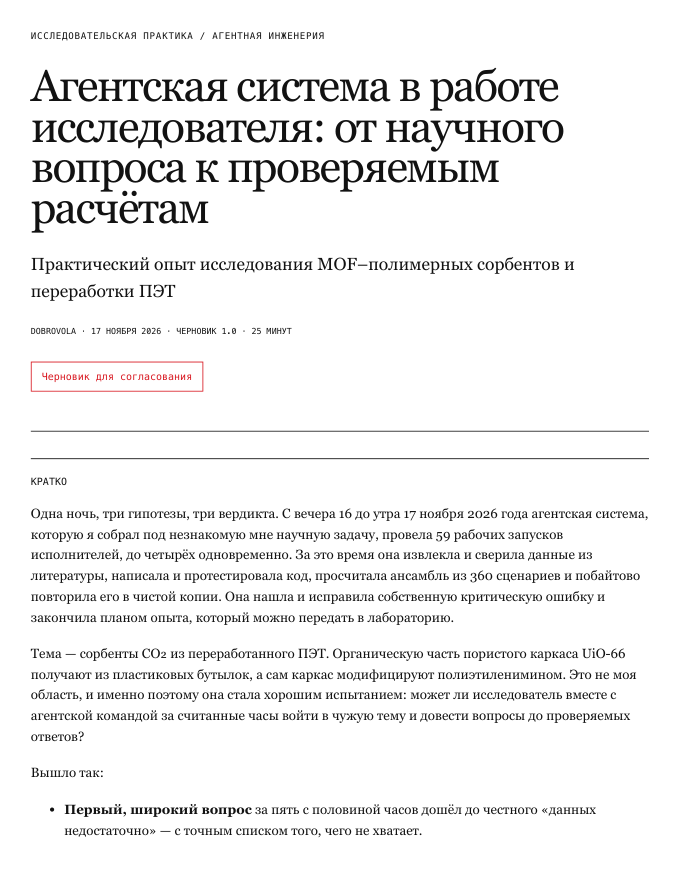
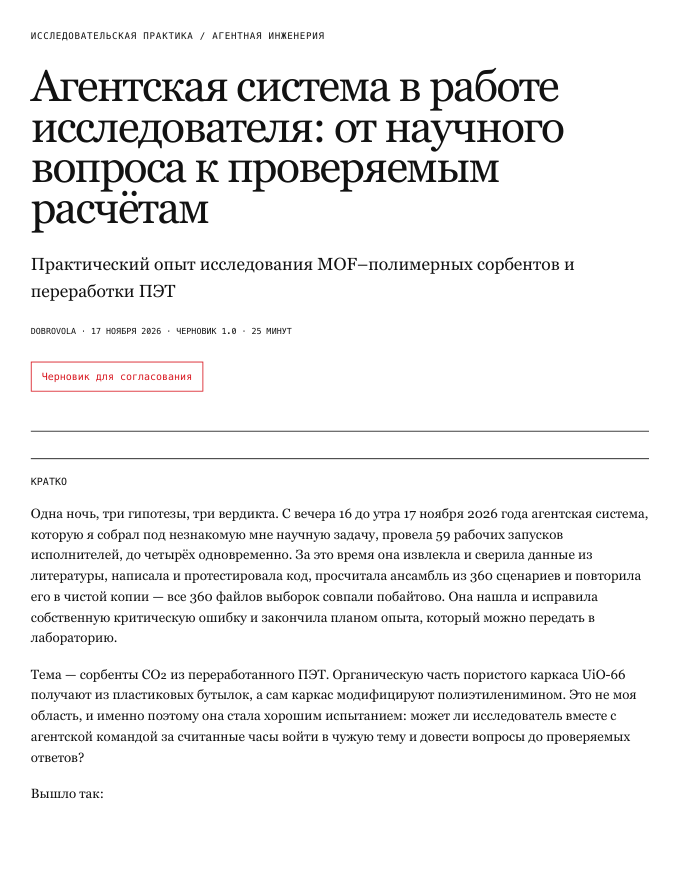
TASK-004: draft-1.0 final — T054r2 report, C41/C46 commit fix, screenshots
T054r2 on e1ad8b5: all 11 earlier findings closed, §4.1-§4.8 covered,
one minor (claims commit locator) fixed here. Screenshots and print
pages retaken; html_check and run log updated.

Changed region(s): [[0.0309, 0.6443, 0.9574, 0.9511], [0.8029, 0.9205, 0.8647, 0.9511]]

diff --git a/publications/agentic-research-pet2mof/review/T054r2_final_check.md b/publications/agentic-research-pet2mof/review/T054r2_final_check.md
@@ -1,0 +1,94 @@
+# T054r2 — финальная проверка изменённых фрагментов
+
+Проверен `e1ad8b572e0acb513297865eb7549f2414db8991`, база diff —
+`d0c741e42391b406a3e99f4d262ba0ed28dce932`. Дата: 17.11.2026.
+Роль: исполнитель PET2MOF, независимый проверяющий · платформа: OpenAI Codex.
+Назначение: `gpt-6-astra`, effort `high`; фактические модель/effort и launcher
+этим интерфейсом независимо не подтверждены. Локальных `.agents/skills/` и
+`.claude/rules/` нет; применены AGENTS.md и карточка, чужие роли не подставлялись.
+
+**Вердикт: прежние 11 замечаний закрыты по существу; новых — 0 critical,
+0 major, 1 minor (локатор C46). Требования §4.1–§4.8 покрыты.**
+Новых опровергнутых научных чисел или существенного усиления научных выводов
+в проверенном diff не найдено. Для внешних сведений действует ограничение ниже.
+
+Обозначения: **S1** = `66bae26af9970c3142b72d25031c844b5461708f`,
+**S2** = `1558433614619e04102989d6b6f1479c50f364ce`,
+**S3** = `70685dc686ce22505b303a60920980a02772f019`.
+**PACK** = `data/task002/PET2MOF_Task002_DataPack_v1.0/` на S2.
+Пути статьи, `evidence/` и `review/` — относительно комплекта статьи;
+остальные — от корня проекта. Строки относятся к проверенному HEAD.
+
+| Пункт | Итог | Место | Доказательство |
+| --- | --- | --- | --- |
+| T054-01 | Закрыто, регрессии нет | `article.ru.md:91,96,165` | Удалены повторения в P02/P07, но исключение о последних правках руководителя и ограничения слепоты сохранены у схемы. S1:`docs/prereg_status.md`; S2:`reports/task002/final_report_task002.md` §4; S3:`reports/task003/review.md`, заключение. |
+| T054-02 | Закрыто | Ст. 322–335; C43 | MD → конфигурации → адсорбция; DFT → параметры отдельной модели η; GCMC → равновесная физсорбция, затем модель аминов/регенерации. Статус перспективы сохранён. S1:`docs/work_order_v1.1_RU.md` §4; определения φ/η в S3:`reports/task003/final_report.md` §4. |
+| T054-03 | Закрыто, регрессии нет | Ст. 156,161; C14 | В подписи остались T/p/сухой чистый газ; неоднозначность 1 bar / 1 atm и неоценённое влияние на ранги сохранены рядом с результатом, ст. 156. PACK:`data/primary/S2_dry_CO2.csv`; итоговый отчёт S2 §3. |
+| T054-04 | Закрыто | Ст. 163,368 | «PET-происхождение не установлено», не отрицание происхождения. PACK:`data/primary/S2_materials.csv`: `PET_derived=not_reported`. |
+| T054-05 | Закрыто | Ст. 327; C42 | Размер PEI назван модельным, зависящим от массы/конформации; расположение неизвестно. S3:`reports/task003/route_compatibility.md:4–6`. |
+| T054-06 | Закрыто по сохранённому свидетельству | Ст. 34 | «Одна из основных» соответствует E1 в `review/T054_rewrite_review.md`; новой проверки страницы UG не было. |
+| T054-07 | Закрыто по сохранённому свидетельству | Ст. 46; C34 | И статья, и реестр говорят об объявленном сроке; C34 указывает сообщение 19.03.2025. Соответствует E4 в T054; факт запуска больше не утверждается. |
+| T054-08 | Закрыто | Ст. 343; C45 | Теперь максимум «около», а не ложная строгая граница. S3:`reports/task003/independent_agreement.json`: 124 сравнения, 0 failures, максимум `8.830713937868495e-13`. |
+| T054-09 | Закрыто | Ст. 40; C33 | Вывод ограничен удельной поверхностью одной пары. S3:`data/task003/extracted/SRC03_tables.csv`, Table S2: 874.6/873.9 м²/г. |
+| T054r-01 | Закрыто | Ст. 76 | Убрано «только», перечислены исходные файлы с персональными данными и непубликуемые копии статей. S2:`docs/task002/error_log.md`, записи 2,15; итоговый отчёт §2. |
+| T054r-02 | Закрыто | C45 | Единый допуск удалён; по JSON S3: h/w/s/G — 94 × 10⁻¹², kstar — 6 × 10⁻¹¹, η·nN — 24 × 10⁻⁹. Оговорка `not_compared` сохранена. |
+| Уточнение воспроизведения | Подтверждено | Ст. 16 | 360 совпавших файлов выборок, не все артефакты. S1:`reviews/T016_clean_reproduction.md:6,42–43`; `reports/final_report.md:94`. |
+| Предметное пояснение | Соответствует постановке | Ст. 44 | Носитель/композит и влияние массы/блокировки согласованы с балансом S3; сухие условия — с S2 §1 и S100 при 298 K. Показатели установки прямо отделены от сухой ёмкости; влажный ансамбль первого этапа описан отдельно. |
+| Отказ от усложнений | Подтверждено в контексте имеющихся данных | Ст. 170 | Влажность/цикл/крупный ансамбль исключены постановкой TASK-002; Toth не идентифицируется, сохранена интерполяция: S2:`reports/task002/final_report_task002.md` §4 (36 сохранённых попыток). «Без потерь» относится к решению этой узкой задачи, не доказательству бесполезности методов вообще. |
+| Название конвейера, опыт и исходы | Подтверждено | Ст. 78,211,220 | Названия не обещают полного ответа одним опытом. Категория «неразрешимо» есть в S3:`reports/task003/next_experiment.md`; речь о запланированной классификации, не проведённом опыте. |
+| C46: числа | Подтверждено; локатор неверен | C46; ст. 109,357–359 | `stage_stats.csv`: 5.494/0.948/1.876 ч, 44/8/7 запусков; от первого smoke до финала 11.938 ч. Суммы/числа запусков/максимум параллелизма сверены с `agent_runs.csv`. См. новый minor ниже. |
+| C47 | Подтверждено | C47; ст. 115 | S1:`docs/work_order_v1.1_RU.md`: 4781 элемент при разделении по пробелам, округление до 4800 допустимо. |
+| Остальные правки CSV | Без содержательных изменений | C03–C30, изменённые поля `section` | Поэлементное сравнение CSV: переименованы разделы; значения, источники и ограничения этих строк не менялись. |
+
+| Пункт поручения | Итог | Место | Доказательство покрытия |
+| --- | --- | --- | --- |
+| §4.1 | Покрыт | Ст. 28–71 | Мотивация, ПЭТ/MOF/UiO-66/PEI, смысл поглощения и ёмкости, носитель/композит, сухая ёмкость/установка, отсутствие сотрудничества. |
+| §4.2 | Покрыт | Ст. 69–109,320–335 | Роли, рабочие копии, launcher, инструменты, приёмка, Python, извлечение/OCR, тесты и паспорта; движки обозначены перспективой. |
+| §4.3 | Покрыт | Ст. 111–132 | Гипотеза, входы, источники, модель, ансамбль, ограничения массовой основы/проверки, полезная инфраструктура и переход. |
+| §4.4 | Покрыт | Ст. 134–170 | Подготовленный пакет и готовые контрольные ответы отделены от работы исполнителей; кандидаты, устойчивость, методы и причина отказа от усложнений. |
+| §4.5 | Покрыт | Ст. 172–220 | R1/R2, баланс, условный приоритет, формула с расшифровкой, требования вместо прогнозируемой η, парный опыт. |
+| §4.6 | Покрыт | Ст. 222–249 | Порог переноса, массовая основа, оператор пористости: исходный вывод, проверка, исправление и последствие. |
+| §4.7 | Покрыт | Ст. 337–372 | Польза связана с данными/кодом/проверками/планом опыта; человеческие решения и необходимость эксперимента сохранены. |
+| §4.8 | Покрыт | Ст. 374–393; приложение P08, ст. 1339 | Шесть шагов, новый обобщённый шаблон с полями и три требуемые группы ссылок. |
+
+Блоки «цель → что передали → что сделали → что получили → почему изменили»
+изложены повествованием и подзаголовками. Это разрешённое владельцем решение,
+не дефект; смысловые составляющие присутствуют у всех трёх этапов.
+
+## Новое замечание
+
+**T054r2-01 · minor — C46 ссылается на commit, где одного из источников ещё нет.**
+
+Место: `evidence/claims.csv:47` (C46). Поле `source_path` содержит
+`evidence/stage_stats.csv; evidence/agent_runs.csv`, общее поле `commit` — `afbf522`.
+Первый файл на этом commit отсутствует; второй существует и совпадает с HEAD.
+Поэтому заявленные календарные границы нельзя проверить по первой паре путь/commit.
+Это дефект прослеживаемости, а не неверные длительности.
+
+Проверка (ожидаемый exit **128**):
+
+```sh
+git cat-file -e afbf522:publications/agentic-research-pet2mof/evidence/stage_stats.csv
+```
+
+Исправление: для `stage_stats.csv` указать
+`eb69fe1c5047d322fdd7d8e3712414a5438b6e60`, где файл существует и побайтово равен HEAD;
+для `agent_runs.csv` сохранить `afbf52256b98dabde01c39fc14a8074c8aec3c6c`
+с явным соответствием каждому пути либо выбрать один проверенный commit для обоих.
+Статью и реестр в этой задаче не исправлял.
+
+## Проверки и непроверенное
+
+Команда diff из карточки выполнена (exit 0); HEAD подтверждён, исходное дерево чистое.
+Read-only Python через stdin (stdlib, exit 0) сравнил поля CSV, посчитал слова C47,
+агрегировал исходный JSON сравнений S3, сверил статистику запусков и календарные интервалы,
+проверил Git-объекты источников C46. Три исторических итоговых отчёта побайтово равны HEAD.
+Команды не создавали расчётных выходов; единственный новый файл — этот вердикт.
+
+Не проверены заново: внешние страницы и факт запуска залоговой системы; исходные научные
+PDF/JATS и их визуальная вёрстка; рисунки, HTML/браузерная сборка и доступность ссылок;
+полное воспроизведение и тесты TASK-001/002/003; приватные логи и фактическая маршрутизация
+модели; экспериментальная применимость и мощность будущего опыта. Неизменённые утверждения
+не проходили сплошного нового фактчекинга: они читались для закрытия замечаний и проверки
+смыслового покрытия поручения. Внешние T054-06/07 закрыты относительно сохранённого
+свидетельства T054, не новой сетевой сверки. Сеть, `.env`, stage, commit и push не использовались.

diff --git a/publications/agentic-research-pet2mof/review/html_check.md b/publications/agentic-research-pet2mof/review/html_check.md
@@ -6,12 +6,12 @@
 
 | Проверка | Как | Результат |
 | --- | --- | --- |
-| Сборка и офлайн-правила | `python3 -I tools/check.py` с `ARTICLE_PRIVATE_PATTERNS` (имя/почта владельца, домашние пути, `claude.ai`, `sandbox:`) | 0 ошибок; 4916 слов основного текста; один H1; якоря и локальные пути существуют; ссылки на GitHub — только полный SHA трёх commit и существующий путь; внешних загрузок (script/link/img/`url()`/`@import`) нет |
+| Сборка и офлайн-правила | `python3 -I tools/check.py` с `ARTICLE_PRIVATE_PATTERNS` (имя/почта владельца, домашние пути, `claude.ai`, `sandbox:`) | 0 ошибок; 5019 слов основного текста; один H1; якоря и локальные пути существуют; ссылки на GitHub — только полный SHA трёх commit и существующий путь; внешних загрузок (script/link/img/`url()`/`@import`) нет |
 | Цитаты промптов | `python3 -I evidence/check_excerpts.py` | 7 промптов, 14 выдержек, 71 событие, 62 запуска, 0 несовпадений |
 | Тесты сборщика | `../../.venv/bin/python -I -m pytest -q` в `tools/` | 19 passed |
 | Ширины 1440 / 768 / 375 | Встроенный браузер Claude, JS-проверка | нет горизонтальной прокрутки; 7/7 изображений загружены; 10 блоков `<details>`; 3 таблицы; консоль пуста; на мобильной ширине оглавление в потоке, 15 пунктов верхнего уровня |
 | Скриншоты 1440 / 768 / 390 | headless Google Chrome; 390 px — через iframe шириной 390 px (у headless-окна минимальная ширина больше 390) | `screenshots/screen_1440.png`, `screen_768.png`, `screen_390.png` (верх страницы, 2400 px) |
-| Печать | headless Chrome → PDF, разбор PyMuPDF | 73 страницы; полные тексты промптов раскрыты (служебные строки приложения присутствуют 7 раз); URL ссылок печатаются; оглавление скрыто; `screenshots/print_page01.png`, `print_page10.png` |
+| Печать | headless Chrome → PDF, разбор PyMuPDF | 74 страницы; полные тексты промптов раскрыты (служебные строки приложения присутствуют 7 раз); URL ссылок печатаются; оглавление скрыто; `screenshots/print_page01.png`, `print_page10.png` |
 | Без JavaScript | один встроенный скрипт: раскрывает `<details>` при переходе по якорю и перед печатью; без него разметка читается целиком | содержимое и приложения доступны (раскрытие `<details>` — средствами браузера; печать раскрыта и CSS-правилом) |
 | Фокус клавиатуры | CSS `:focus-visible` (проверено в редакции 0.9; стили с тех пор не менялись) | видимая рамка у ссылок и `summary` |
 | Пометка черновика и robots | разметка | «Черновик для согласования» вверху; `<meta name="robots" content="noindex,nofollow">` |
@@ -22,5 +22,5 @@
 * Safari и Firefox не проверялись; только движки Chromium (встроенный браузер и Google Chrome).
 * Скриншоты — верх страницы; длинные таблицы и рисунки ниже проверены JS-измерением, не визуально на каждой ширине.
 * Внешние HTTPS-ссылки раздела о Гданьске открывались 17.11.2026 (руководитель и T054); их доступность позже не гарантируется.
-* Последние правки после T054r (атрибуция системы залога, «около 8.8·10⁻¹³», перечень непубличных материалов, C34/C45)
-  внесены руководителем по рекомендациям T054r и повторно независимо не проверялись.
+* Правки после T054r проверены T054r2 (на `e1ad8b5`, 0 новых critical/major). После T054r2 руководитель изменил только
+  поле `commit` строк C41 и C46 `claims.csv` по замечанию T054r2-01; это повторно не проверялось.

diff --git a/publications/agentic-research-pet2mof/README_RU.md b/publications/agentic-research-pet2mof/README_RU.md
@@ -41,7 +41,7 @@ python3 -I tools/check.py
 Редакция 0.9 сохранена тегом `task004-draft-0.9`; её проверили T052 (научная редактура) и T053 (комплектность), отчёты —
 в `review/`. Редакция 1.0 написана заново в более динамичном тоне: тема и её актуальность, Гданьский университет и
 CO2MAT, мотивация, конвейер, три прогона, самопроверка, перспектива движков моделирования. Все оговорки собраны в один
-раздел «Границы результата». Фактические исправления T052 перенесены в новый текст. Редакцию 1.0 независимо проверил T054 (3 major, 6 minor — исправлены), исправления — T054r (закрыто 7 из 9, остальное и 2 новых minor исправлены руководителем без повторной проверки; см. `review/html_check.md`).
+раздел «Границы результата». Фактические исправления T052 перенесены в новый текст. Редакцию 1.0 независимо проверил T054 (3 major, 6 minor — исправлены), исправления — T054r и финальный текст — T054r2 (все 11 замечаний закрыты, §4.1–§4.8 покрыты; после T054r2 изменены только ссылки на commit в C41/C46).
 
 **Отклонение от поручения §4 для согласования:** блоки этапов «цель → что передали → что сделали → что получили → почему
 изменили» сохранены по смыслу, но изложены повествованием с короткими полужирными метками, а не жёстким шаблоном.
